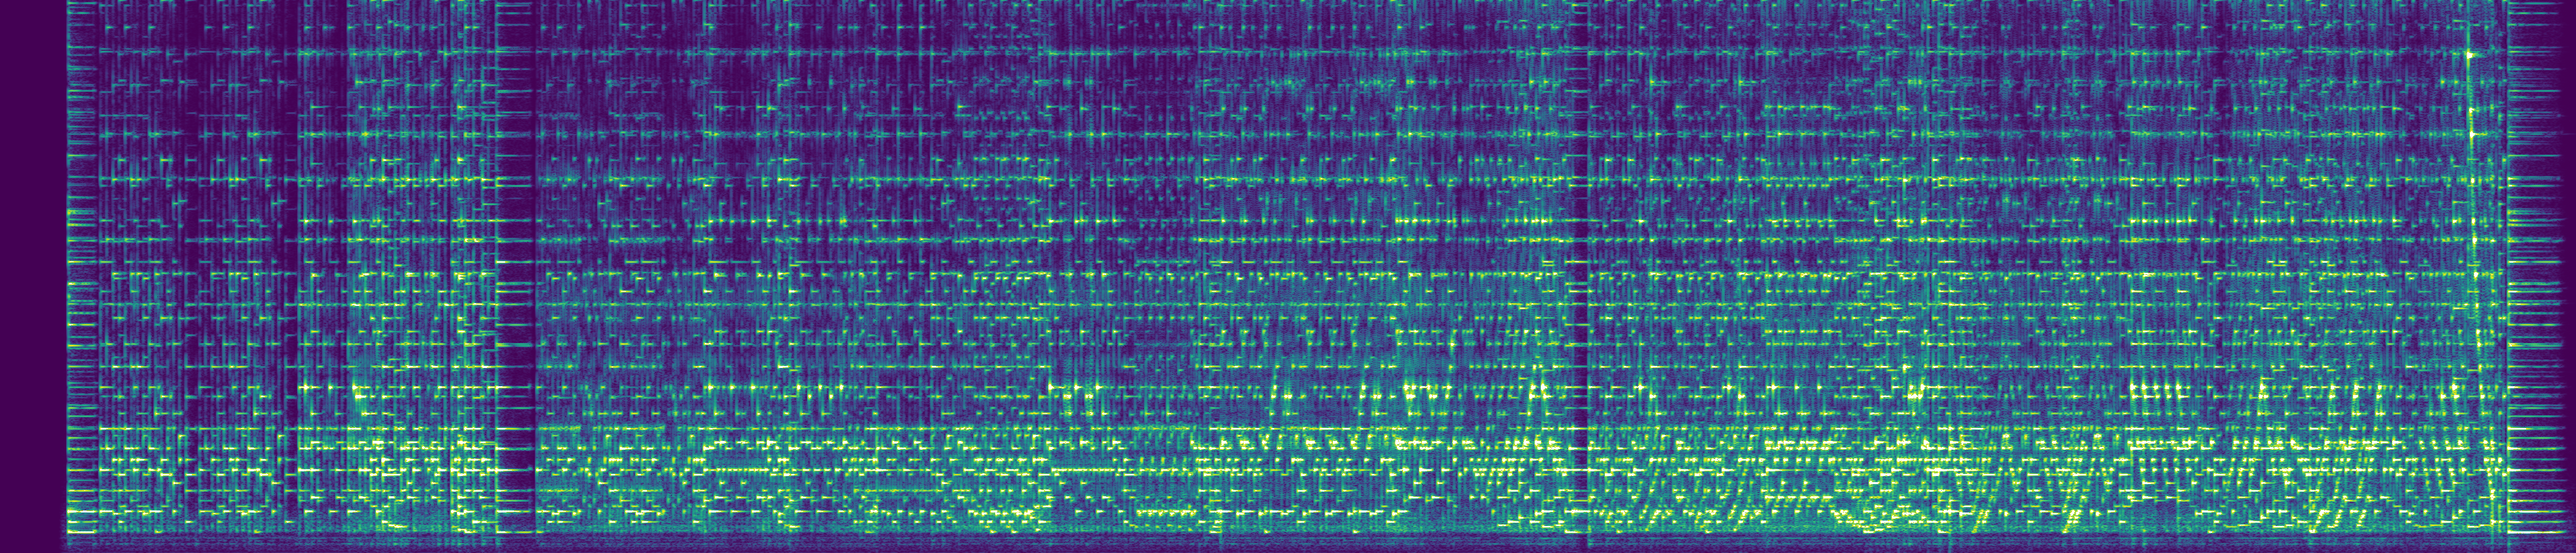
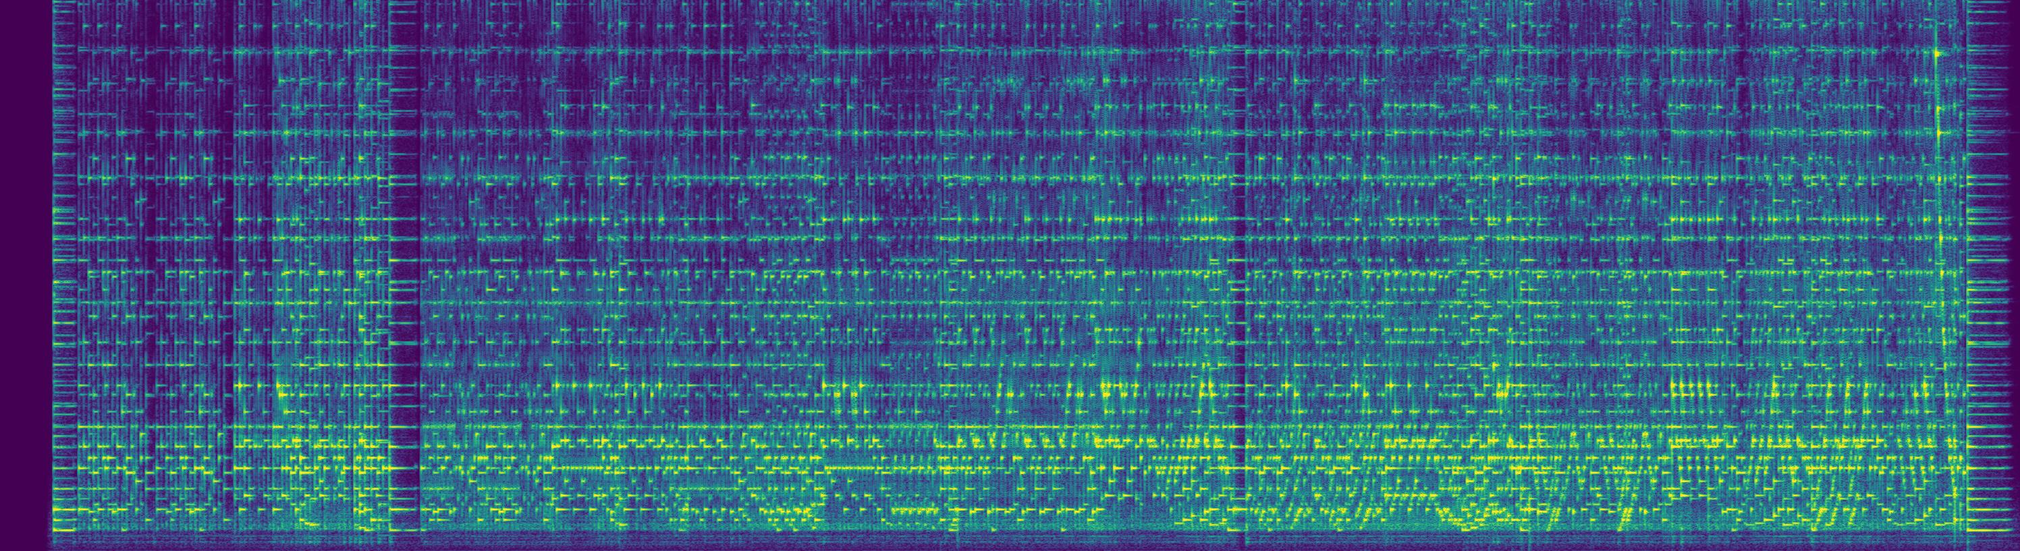
add song quickstart to tests

Changed region(s): [[0.0, 0.0, 1.0, 1.0]]

diff --git a/src/Spectrogram.Tests/Quickstart.cs b/src/Spectrogram.Tests/Quickstart.cs
@@ -8,15 +8,39 @@ namespace Spectrogram.Tests
     public class Quickstart
     {
         [Test]
-        public void Test_WholeFile_DefaultSettings()
+        public void Test_Quickstart_Hal()
         {
             double[] audio = Read.WavInt16mono("../../../../../data/cant-do-that-44100.wav");
+            int sampleRate = 44100;
 
-            var spec = new Spectrogram(sampleRate: 44100, fftSize: 1 << 12, stepSize: 500, maxFreq: 3000);
+            int fftSize = 4096;
+            var spec = new Spectrogram(sampleRate, fftSize, stepSize: 500, maxFreq: 3000);
             spec.Add(audio);
             spec.SaveImage("../../../../../dev/graphics/hal.png", intensity: .2);
             
             Console.WriteLine(spec);
+        }
+
+        [Test]
+        public void Test_Quickstart_Handel()
+        {
+            double[] audio = Mp3.Read("../../../../../data/Handel - Air and Variations.mp3");
+            int sampleRate = 44100;
+
+            int fftSize = 16384;
+            int targetWidthPx = 3000;
+            int stepSize = audio.Length / targetWidthPx;
+
+            var spec = new Spectrogram(sampleRate, fftSize, stepSize, maxFreq: 2200);
+            spec.Add(audio);
+            spec.SaveImage("../../../../../dev/spectrogram-song.jpg", intensity: 5, dB: true);
+
+            Console.WriteLine(spec);
+            /*
+             Spectrogram (2993, 817)
+               Vertical (817 px): 0 - 2,199 Hz, FFT size: 16,384 samples, 2.69 Hz/px
+               Horizontal (2993 px): 2.96 min, window: 0.37 sec, step: 0.06 sec, overlap: 84%
+            */
         }
     }
 }
